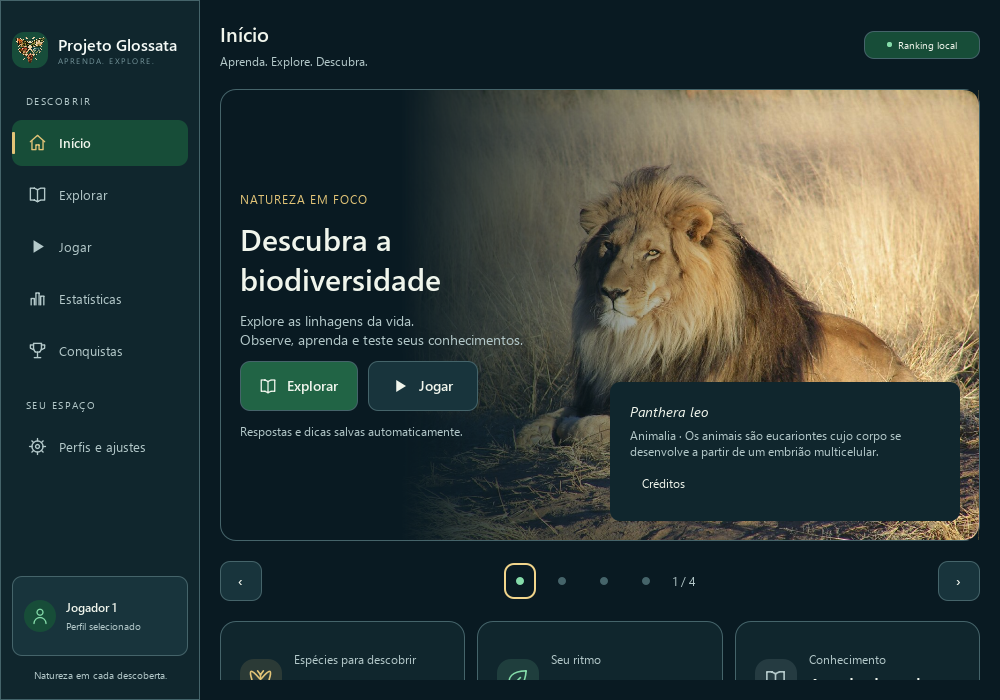
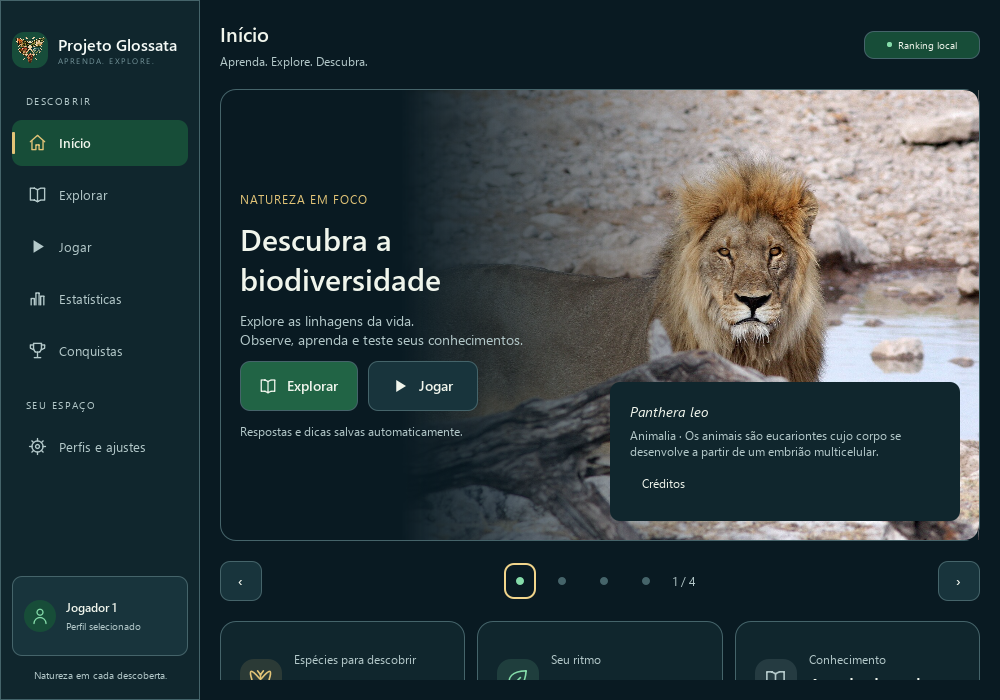
fix(media): use an independently licensed FHD lion photo on home

Changed region(s): [[0.434, 0.12, 0.992, 0.78]]

diff --git a/scripts/exploration_media.py b/scripts/exploration_media.py
@@ -179,6 +179,20 @@ def matching_variant(base, variant, root=ROOT):
     except (KeyError,ValueError,OSError):return False
 
 
+def matching_replacement(base, replacement, root=ROOT):
+    """A different Home photo needs its own evidence, not the base photo's permission or review."""
+    if (replacement.get('usage')!='home' or replacement.get('subject')!=base.get('subject')
+        or replacement.get('catalog_species_id')!=base.get('catalog_species_id')
+        or replacement.get('width',0)<1920 or replacement.get('height',0)<1080):return False
+    try:
+        species=next(s for s in load(root/'resources/data/species.json') if s['id']==replacement['catalog_species_id'])
+        record=load(local_file(root,replacement['evidence_path']))['record']
+        category=record.get('identification_category','')
+        return species['name']==replacement['subject'] and bool(re.match(
+            r'^Category:'+re.escape(species['name'])+r'(?:$|[ (])',category))
+    except (KeyError,ValueError,OSError,StopIteration):return False
+
+
 def audit(root=ROOT):
     data=load(root/MANIFEST,{'photos':{},'bindings':{}});errors=[]
     nodes={n['id']:n for n in load(root/'resources/data/taxonomy.json',[])}
@@ -189,6 +203,9 @@ def audit(root=ROOT):
     for base,key in data.get('home_variants',{}).items():
         if base not in photos or key not in photos or not matching_variant(photos[base],photos[key],root):
             errors.append({'photo':key,'error':'home_variant_identity'})
+    for base,key in data.get('home_replacements',{}).items():
+        if base not in photos or key not in photos or not matching_replacement(photos[base],photos[key],root):
+            errors.append({'photo':key,'error':'home_replacement_identity'})
     for taxon,photo in data.get('bindings',{}).items():
         if taxon not in nodes or photo not in photos:errors.append({'taxon':taxon,'error':'invalid_binding'})
         elif photos[photo].get('usage')=='home':errors.append({'taxon':taxon,'error':'home_variant_used_for_card'})
@@ -273,6 +290,9 @@ if __name__=='__main__':
                     if entry.get('variant_of'):
                         if not matching_variant(photos.get(entry['variant_of'],{}),photo):raise ValueError('Variant source identity differs from archived base')
                         data.setdefault('home_variants',{})[entry['variant_of']]=entry['id']
+                    if entry.get('replacement_of'):
+                        if not matching_replacement(photos.get(entry['replacement_of'],{}),photo):raise ValueError('Replacement species or source evidence incompatible')
+                        data.setdefault('home_replacements',{})[entry['replacement_of']]=entry['id']
                     photos[entry['id']]=photo
                     save(ROOT/MANIFEST,data) # A bounded interrupted run preserves completed records.
                     print(entry['subject']+': prepared '+title,flush=True)

diff --git a/tests/test_exploration_media.py b/tests/test_exploration_media.py
@@ -40,7 +40,13 @@ class ExplorationMediaTests(unittest.TestCase):
         self.assertEqual(len(report['coverage']),report['total_cards'])
         self.assertEqual(sum(row['id']=='special:mixed' for row in report['coverage']),1)
         self.assertLess(sum(p['bytes'] for p in self.data['photos'].values() if p.get('usage')!='home'),25_000_000)
-        self.assertLess(sum(p['bytes'] for p in self.data['photos'].values() if p.get('usage')=='home'),8_000_000)
+        # Four active FHD images, plus the prior low-resolution fallback kept for traceability.
+        self.assertLess(sum(p['bytes'] for p in self.data['photos'].values() if p.get('usage')=='home'),9_000_000)
+        active=dict(self.data['home_variants']);active.update(self.data.get('home_replacements',{}))
+        self.assertLess(sum(self.data['photos'][k]['bytes'] for k in active.values()),8_000_000)
+        for key in active.values():
+            self.assertGreaterEqual(self.data['photos'][key]['width'],1920)
+            self.assertGreaterEqual(self.data['photos'][key]['height'],1080)
         for photo in self.data['photos'].values():
             self.assertEqual(governance.image_privacy_findings(ROOT/photo['path']),[])
             proof=governance.load(ROOT/photo['evidence_path'])['record']
@@ -96,6 +102,17 @@ class ExplorationMediaTests(unittest.TestCase):
         base=next(k for k,v in self.data['bindings'].items() if v=='monarch')
         self.data['bindings'][base]='home-monarch';self.persist()
         self.assertIn('home_variant_used_for_card',{e['error'] for e in media.audit(self.root)['errors']})
+
+    def test_different_home_photo_requires_same_species_and_own_evidence(self):
+        base=self.data['photos']['lion'];replacement=self.data['photos']['home-lion-fhd']
+        self.assertFalse(media.matching_variant(base,replacement,self.root))
+        self.assertTrue(media.matching_replacement(base,replacement,self.root))
+        for field,value in [('subject','Panthera onca'),('catalog_species_id',999999),('width',1280),('height',960)]:
+            self.assertFalse(media.matching_replacement(base,dict(replacement,**{field:value}),self.root),field)
+        path=self.root/replacement['evidence_path'];evidence=governance.load(path)
+        evidence['record'].pop('identification_category');governance.save(path,evidence)
+        self.assertFalse(media.matching_replacement(base,replacement,self.root))
+        self.assertIn('permission_evidence_hash',media.photo_errors(replacement,self.root))
 
     def test_home_collection_rejects_server_upscaling(self):
         info={'url':'https://upload.wikimedia.org/fixture.jpg','thumburl':'https://upload.wikimedia.org/fixture-thumb.jpg',

diff --git a/src/infrastructure/content/JsonExplorationMediaCatalog.cpp b/src/infrastructure/content/JsonExplorationMediaCatalog.cpp
@@ -100,6 +100,21 @@ JsonExplorationMediaCatalog::JsonExplorationMediaCatalog(const QString &root) {
     for(const auto &entry:QJsonDocument::fromJson(read(root+"/resources/data/species.json")).array()) {
         const auto organism=entry.toObject();organisms.insert(organism["id"].toInt(),organism);
     }
+    const auto replacements=data["home_replacements"].toObject();
+    for(auto it=replacements.begin();it!=replacements.end();++it) {
+        const QString key=it.value().toString();
+        const auto base=photos[it.key()].toObject(), photo=photos[key].toObject();
+        const auto organism=organisms.value(photo["catalog_species_id"].toInt());
+        const QString subject=photo["subject"].toString();
+        const auto proof=QJsonDocument::fromJson(read(root+"/"+photo["evidence_path"].toString())).object()["record"].toObject();
+        const QRegularExpression category("^Category:"+QRegularExpression::escape(subject)+"(?:$|[ (])");
+        if(verified.contains(it.key()) && verified.contains(key) && photo["usage"]=="home"
+            && !subject.isEmpty() && subject==base["subject"] && organism["name"]==subject
+            && photo["catalog_species_id"]==base["catalog_species_id"]
+            && photo["width"].toInt()>=1920 && photo["height"].toInt()>=1080
+            && category.match(proof["identification_category"].toString()).hasMatch())
+            verified[it.key()].insert("homeReplacement",verified.value(key));
+    }
     for(auto it=bindings.begin();it!=bindings.end();++it) {
         const QString key=it.value().toString();
         const auto photo=photos[key].toObject();

diff --git a/tests/GameServiceTests.cpp b/tests/GameServiceTests.cpp
@@ -841,6 +841,21 @@ void GameServiceTests::explorationPhotographsFailClosed()
     const auto fallback=rejectedVariant.photoFor("clade:Opisthokonta");
     QCOMPARE(fallback["image"],card["image"]);
     QVERIFY(fallback["homeVariant"].toMap().isEmpty());
+    const auto replacement=data["photos"].toObject()["home-lion-fhd"].toObject();
+    for(const auto &key:{"path","evidence_path"}) {
+        const QString path=replacement[key].toString();
+        QDir().mkpath(QFileInfo(directory.filePath(path)).absolutePath());
+        QVERIFY(QFile::copy(":/"+path,directory.filePath(path)));
+    }
+    QVERIFY(write(lion));JsonExplorationMediaCatalog replaced(directory.path());
+    const auto home=replaced.photoFor("clade:Opisthokonta")["homeReplacement"].toMap();
+    QCOMPARE(home["width"].toInt(),1920);
+    QCOMPARE(home["subject"].toString(),QString("Panthera leo"));
+    QCOMPARE(replaced.photoFor("clade:Opisthokonta")["image"],card["image"]);
+    auto wrongSpecies=replacement;wrongSpecies["subject"]="Panthera onca";
+    photographs=data["photos"].toObject();photographs["home-lion-fhd"]=wrongSpecies;data["photos"]=photographs;
+    QVERIFY(write(lion));JsonExplorationMediaCatalog unrelated(directory.path());
+    QVERIFY(unrelated.photoFor("clade:Opisthokonta")["homeReplacement"].toMap().isEmpty());
 }
 
 void GameServiceTests::newTaxonomicRanksRequireIndependentReview()

diff --git a/src/application/TaxonomyIndex.cpp b/src/application/TaxonomyIndex.cpp
@@ -104,7 +104,8 @@ QVariantList TaxonomyIndex::homeSlides() const
         for (const auto &node : taxons_) if (node.name == name) {
             auto slide = describe(node.id);
             auto photo = slide.value("photo").toMap();
-            if (!photo.value("homeVariant").toMap().isEmpty()) photo = photo.value("homeVariant").toMap();
+            if (!photo.value("homeReplacement").toMap().isEmpty()) photo = photo.value("homeReplacement").toMap();
+            else if (!photo.value("homeVariant").toMap().isEmpty()) photo = photo.value("homeVariant").toMap();
             slide.insert("photo", photo);
             const auto introduction = slide.value("introduction").toMap();
             const QString image = photo.value("image").toString();

diff --git a/tests/QmlInterfaceTests.cpp b/tests/QmlInterfaceTests.cpp
@@ -64,6 +64,8 @@ void QmlInterfaceTests::homeCarouselPhotographsAndNavigation()
         QVERIFY(!photo["author"].toString().isEmpty());
         QVERIFY(photo["licenseUrl"].toString().startsWith("https://creativecommons.org/"));
         QCOMPARE(photo["evidenceSha256"].toString().size(), 64);
+        QVERIFY(photo["width"].toInt() >= 1920);
+        QVERIFY(photo["height"].toInt() >= 1080);
         QVERIFY(!images.contains(photo["image"].toString()));
         images.insert(photo["image"].toString());
         QVERIFY(slide["introduction"].toMap()["text"].toString().startsWith(slide["excerpt"].toString()));

diff --git a/docs/interface/VERSOES/2.2.1-A/README.md b/docs/interface/VERSOES/2.2.1-A/README.md
@@ -16,7 +16,7 @@ Arquivos de produção do refinamento: `HomeView.qml`, `Theme.qml`, `TaxonomyInd
 
 | Grupo / representante | Crédito e licença específica | Evidência arquivada | Fonte do trecho educativo existente |
 | --- | --- | --- | --- |
-| Animalia / *Panthera leo* | [Kevin Pluck — CC BY 2.0](https://commons.wikimedia.org/wiki/File:Lion_waiting_in_Namibia.jpg) | [lion.json](../../../../resources/compliance/exploration/lion.json) | [Jacques et al. (2022)](https://doi.org/10.1007/s12032-022-01740-w) |
+| Animalia / *Panthera leo* | [Ron Knight from Seaford, East Sussex, United Kingdom — CC BY 2.0](https://commons.wikimedia.org/wiki/File:Lion_(Panthera_leo)_(8603270337).jpg) | [home-lion-fhd.json](../../../../resources/compliance/exploration/home-lion-fhd.json) | [Jacques et al. (2022)](https://doi.org/10.1007/s12032-022-01740-w) |
 | Arthropoda / *Danaus plexippus* | [kcthetc1 — CC0 1.0](https://commons.wikimedia.org/wiki/File:Danaus_plexippus_100029190.jpg) | [monarch.json](../../../../resources/compliance/exploration/monarch.json) | [Klementz et al. (2024)](https://doi.org/10.1093/molbev/msae188) |
 | Plantae / *Helianthus annuus* | [S.G.S. — CC0 1.0](https://commons.wikimedia.org/wiki/File:Sunflowers_public_domain_helianthus_annuus_IMG_0815.jpg) | [sunflower.json](../../../../resources/compliance/exploration/sunflower.json) | [Fangel et al. (2012)](https://doi.org/10.3389/fpls.2012.00152) |
 | Fungi / *Amanita muscaria* | [Bernard Spragg. NZ from Christchurch, New Zealand — CC0 1.0](https://commons.wikimedia.org/wiki/File:Amanita_muscaria_(1)_(8692325426).jpg) | [amanita.json](../../../../resources/compliance/exploration/amanita.json) | [Challacombe et al. (2019)](https://doi.org/10.1186/s12864-019-6358-x) |
@@ -38,7 +38,7 @@ As capturas reais e seus hashes são relacionados em `capturas.json`, com fontes
 | Girassol | [Captura](capturas/slide-2-1000x700.png) | [Captura](capturas/slide-2-1240x820.png) | [Captura](capturas/slide-2-1920x1080.png) |
 | Cogumelo | [Captura](capturas/slide-3-1000x700.png) | [Captura](capturas/slide-3-1240x820.png) | [Captura](capturas/slide-3-1920x1080.png) |
 
-[Diálogo de créditos](capturas/credits-1240x820.png). Versões anteriores preservadas integralmente. Em 1000 × 700, os indicadores inferiores usam a rolagem existente; não ficam inacessíveis. As variantes maiores são exclusivas da Home; a tabela abaixo registra as dimensões efetivas. O leão continua limitado pelo original de 1280 × 960, sem original de 1920 pixels de largura disponível; não foi ampliado artificialmente para simular detalhe. Validação visual em Windows/Qt software, escala 1; outras GPUs, escalas e leitores de tela não foram ensaiados.
+[Diálogo de créditos](capturas/credits-1240x820.png). Versões anteriores preservadas integralmente. Em 1000 × 700, os indicadores inferiores usam a rolagem existente; não ficam inacessíveis. As variantes maiores são exclusivas da Home; a tabela abaixo registra as dimensões efetivas. A antiga foto do leão era limitada a 1280 × 960; foi substituída na Home por outra foto de Panthera leo, em 1920 × 1247, sem ampliação artificial. Validação visual em Windows/Qt software, escala 1; outras GPUs, escalas e leitores de tela não foram ensaiados.
 
 Comandos: `cmake --build build -j 4`, `ctest --test-dir build --output-on-failure`, `qmllint resources/qml/views/HomeView.qml --unqualified disable`, `python scripts/capture_home.py`, `python scripts/audit_catalog.py --strict`, `python scripts/licensing_inventory.py --check-code`, `python scripts/release.py check`, `python scripts/distribution.py check`.
 
@@ -60,23 +60,32 @@ As imagens anteriores dos cartões e suas evidências foram preservadas byte a b
 
 | Organismo | Resolução real da Home | Licença comprovada | Evidência da nova coleta |
 | --- | --- | --- | --- |
-| *Panthera leo* | 1280 × 960 | CC BY 2.0 | [home-lion.json](../../../../resources/compliance/exploration/home-lion.json) |
+| *Panthera leo* | 1920 × 1247 | CC BY 2.0 | [home-lion-fhd.json](../../../../resources/compliance/exploration/home-lion-fhd.json) |
 | *Danaus plexippus* | 2048 × 2021 | CC0 1.0 | [home-monarch.json](../../../../resources/compliance/exploration/home-monarch.json) |
 | *Helianthus annuus* | 3024 × 3024 | CC0 1.0 | [home-sunflower.json](../../../../resources/compliance/exploration/home-sunflower.json) |
 | *Amanita muscaria* | 3000 × 2129 | CC0 1.0 | [home-amanita.json](../../../../resources/compliance/exploration/home-amanita.json) |
 
-São os originais fornecidos pela fonte, totalizando 7.666.711 bytes; nenhuma ampliação ou edição dos arquivos foi feita. Todos passaram pela checagem existente de metadados sensíveis. Foram aproveitadas as mesmas identificações e referências, sem nova aprovação humana. A concessão pública por arquivo é registrada pelo mecanismo já existente; não elimina outros bloqueios. O catálogo 2.4.0 permanece não lançado, com identidade de conteúdo regenerada; aplicativo 1.7.0 inalterado.
+A seleção ativa soma 7.920.358 bytes: três originais e a imagem do leão reduzida pela própria fonte de 5184 × 3367 para 1920 × 1247. Nenhum detalhe foi criado por ampliação. O arquivo anterior de 1280 × 960 permanece disponível como fallback rastreável. Todos passaram pela checagem existente de metadados sensíveis. Foram aproveitadas as mesmas identificações e referências, sem nova aprovação humana. A concessão pública por arquivo é registrada pelo mecanismo já existente; não elimina outros bloqueios. O catálogo 2.4.0 permanece não lançado, com identidade de conteúdo regenerada; aplicativo 1.7.0 inalterado.
 
 Dois buffers nativos `Image` mantêm a foto atual enquanto carregam a próxima. O recorte usa a proporção e o ponto focal, com um gradiente independente das imagens. Canvas é utilizado apenas para os recortes dos cantos; os cartões continuam usando seu componente anterior sem alterações. A renderização por Canvas das fotografias foi substituída após reproduzir invalidação de textura em um buffer pré-carregado invisível no renderizador software. O crossfade só começa após o carregamento do buffer de entrada; uma falha mantém a fotografia anterior e libera a navegação. A decodificação é limitada a 1920 pixels por lado, sem ampliar arquivos menores, e o cache dos buffers é desativado; não se mantêm as quatro imagens decodificadas pelo carrossel. O limite de 3072 pixels/5 MB por arquivo aplica-se somente às variantes da Home; os cartões conservam o orçamento anterior de 1024 pixels. Links externos continuam restritos a ações explícitas do usuário.
 
-Validação final do refinamento em 20/10/2026:
+Validação do refinamento anterior à troca FHD do leão em 20/10/2026 (registro histórico):
 
 - Compilação Release concluída; **26/26 suítes CTest aprovadas** (196,79 s). Suíte Qt/QML: **10 casos aprovados**, sem avisos, incluindo inicialização/finalização (57,39 s).
 - O teste aguarda um intervalo real de oito segundos, verifica os dois buffers simultaneamente durante o crossfade de 600 ms, o reinício após ação manual, hover, foco de teclado, créditos, janela inativa/oculta, redução de movimento e saída da Home. Intervalos acelerados são usados somente nas verificações posteriores de pausa/reinício. Testado também retorno ao primeiro slide.
 - As 12 capturas de slides são verificadas por amostragem de pixels reais para rejeitar um quadro vazio, além da prontidão de carregamento. Há 13 capturas finais: quatro slides nas três resoluções solicitadas e diálogo de créditos. Captura oficial regenerada pelo executável real; manifesto atualizado com PNGs, fontes, binários, horários e dados de cada mídia.
-- **21 testes de mídia aprovados**: licença, autoria, evidências, resolução nativa, rejeição de ampliação oferecida pelo servidor, vínculo ao mesmo arquivo-fonte e isolamento dos cartões. Auditoria das 113 entradas de mídia (109 anteriores e quatro variantes, não quatro novos organismos/fotografias-fonte): zero erros.
+- **21 testes de mídia aprovados**: licença, autoria, evidências, resolução nativa, rejeição de ampliação oferecida pelo servidor, vínculo ao mesmo arquivo-fonte e isolamento dos cartões. Auditoria atual: 114 entradas de mídia, incluindo a nova substituta do leão; apenas quatro são selecionadas na Home. Não há organismos adicionados.
 - Qmllint de todos os QML, auditoria estrita do catálogo, Apache 2.0, integridade de manifestos e higiene do repositório aprovados. Permanecem 122 organismos, 855 receitas, 49 etimologias e 104 morfologias verificadas.
 - Comparação com `5eb1fc94be8f7570fe188c85101ce9e16128aa7b`: os 1.053 eventos, todos os 109 registros/arquivos anteriores e os vínculos dos cartões são preservados. Nenhuma alteração de decisões humanas, textos científicos, ícones, regras ou persistência.
 - Distribuição **bloqueada** por 120 pendências fotográficas e 275 bloqueios científicos; zero erros técnicos e zero pendências de outros materiais. Não foi publicado pacote ou release.
 
 O histórico inicial permanece no Git, e as versões baseline/2.1.2/2.1.3 não são modificadas. Renderização avaliada em Qt software/offscreen, escala 1; não há medição de FPS ou garantia sobre outras GPUs/escalas/leitores de tela.
+
+
+## Complemento FHD solicitado pelo mantenedor
+
+Entre as quatro fotografias ativas, somente o leão estava abaixo de 1920 × 1080. Foi preparada outra imagem da mesma espécie, [Panthera leo em Etosha, por Ron Knight](https://commons.wikimedia.org/wiki/File:Lion_(Panthera_leo)_(8603270337).jpg), com CC BY 2.0 comprovada no arquivo específico. A fonte identifica a espécie no título e na categoria `Panthera leo of Etosha National Park`, arquivada pelo coletor; isso não constitui revisão por especialista. A imagem passou pela inspeção visual técnica e pela checagem de metadados sensíveis.
+
+`home_replacements` registra esta seleção separadamente de `home_variants`: não é apresentada como outro tamanho da fotografia de Kevin Pluck. A nova imagem exige evidência própria, identidade coincidente com o organismo 126 e categoria identificadora da fonte, além de pelo menos 1920 × 1080 pixels. A permissão e a identificação da foto antiga não são transferidas. O validador continua exigindo o mesmo arquivo-fonte para variantes de resolução. Em caso de falha, mantém o fallback validado; não libera uma imagem sem licença.
+
+As fotos dos cartões, os vínculos taxonômicos, os organismos, as receitas, os textos e os históricos permanecem intactos. As outras três imagens ativas já superavam FHD e foram mantidas. Crédito, snapshot, hash, QRC, inventário, catálogo e capturas são atualizados pelos mecanismos existentes. Validação final deste complemento: Release compilada; 26/26 suítes CTest aprovadas (195,06 s), dez casos Qt/QML aprovados (57,49 s) e 22 testes de mídia aprovados. A suíte exige pelo menos 1920 × 1080 para as quatro imagens ativas e verifica a rejeição de outra espécie ou evidência identificadora ausente. As 13 capturas reais e o registro canônico do README foram regenerados. Auditorias de catálogo, Apache, governança, mídia, metadados e integridade aprovadas. O gate permanece bloqueado pelas mesmas 120 pendências fotográficas e 275 científicas, com zero erros técnicos.

diff --git a/docs/PHOTO_CREDITS.md b/docs/PHOTO_CREDITS.md
@@ -261,6 +261,8 @@ Representantes visuais dos grupos; não substituem fotos de identificação do q
[1 lines of base64/hex data omitted]
 - **Panthera leo** — Kevin Pluck — título: Lion waiting in Namibia — [arquivo específico](https://commons.wikimedia.org/wiki/File:Lion_waiting_in_Namibia.jpg) — [CC-BY 2.0](https://creativecommons.org/licenses/by/2.0/) — Arquivo original fornecido pelo Wikimedia Commons. Na interface: preenchimento proporcional com recorte centrado no ponto focal e gradiente horizontal de transparência; sem retoque do organismo.
[1 lines of base64/hex data omitted]
+- **Panthera leo** — Ron Knight from Seaford, East Sussex, United Kingdom — título: Lion (Panthera leo) (8603270337) — [arquivo específico](https://commons.wikimedia.org/wiki/File:Lion_(Panthera_leo)_(8603270337).jpg) — [CC-BY 2.0](https://creativecommons.org/licenses/by/2.0/) — Imagem reduzida fornecida pelo Wikimedia Commons. Na interface: preenchimento proporcional com recorte centrado no ponto focal e gradiente horizontal de transparência; sem retoque do organismo.
[1 lines of base64/hex data omitted]
 - **Danaus plexippus** — kcthetc1 — título: Danaus plexippus 100029190 — [arquivo específico](https://commons.wikimedia.org/wiki/File:Danaus_plexippus_100029190.jpg) — [CC0 1.0](https://creativecommons.org/publicdomain/zero/1.0/) — Arquivo original fornecido pelo Wikimedia Commons. Na interface: preenchimento proporcional com recorte centrado no ponto focal e gradiente horizontal de transparência; sem retoque do organismo.
[1 lines of base64/hex data omitted]
 - **Helianthus annuus** — S.G.S. — título: Sunflowers public domain helianthus annuus IMG 0815 — [arquivo específico](https://commons.wikimedia.org/wiki/File:Sunflowers_public_domain_helianthus_annuus_IMG_0815.jpg) — [CC0 1.0](https://creativecommons.org/publicdomain/zero/1.0/) — Arquivo original fornecido pelo Wikimedia Commons. Na interface: preenchimento proporcional com recorte centrado no ponto focal e gradiente horizontal de transparência; sem retoque do organismo.

diff --git a/docs/CATALOGO_CHANGELOG.md b/docs/CATALOGO_CHANGELOG.md
@@ -1,5 +1,7 @@
 # Histórico do catálogo científico e das licenças
 
+Complemento do PR #30 em 2026-10-20, sem lançamento: outra fotografia de Panthera leo, por Ron Knight, preparada em 1920 × 1247 exclusivamente para a Home, com nova evidência individual CC BY 2.0 e categoria identificadora da fonte. A foto anterior e seus registros permanecem como fallback; não há transferência de permissão ou revisão humana presumida. Os outros três slides, cartões e organismos não mudam. Manifesto 2.4.0 não lançado regenerado; app 1.7.0 preservado.
+
 Refinamento do PR #30 em 2026-10-20, sem lançamento: quatro variantes da mesma fotografia-fonte, exclusivas da Home, com novas evidências públicas CC BY 2.0/CC0 1.0, dimensões nativas, hashes e créditos individuais. Preservados os 109 arquivos de exploração anteriores, os 122 organismos, as 855 receitas e todo o histórico de decisões. Catálogo 2.4.0 não lançado regenerado pelo fluxo existente; aplicativo 1.7.0 inalterado. Não libera os demais materiais nem o pacote.
 
 Ajuste final do PR #23 em 2026-10-19, sem lançamento: referências das duas fotos passam a CC BY com versão/URL desconhecidas, sem presumir 4.0. Dois registros técnicos reindexam a mesma aprovação expressa, preservando prova, datas e todos os eventos anteriores. Nenhuma nova decisão humana ou permissão; receitas e imagens idênticas.

diff --git a/CHANGELOG.md b/CHANGELOG.md
@@ -4,6 +4,8 @@ Este arquivo registra mudanças do aplicativo com versionamento semântico. A ve
 
 ## [1.7.0] — Não lançado; curadoria e integridade do projeto
 
+- PR #30: substituída somente a foto do leão na Home por outra de Panthera leo em 1920 × 1247, com identificação e licença CC BY 2.0 próprias; quatro fotos ativas passam a atender FHD, preservando os cartões e os fallbacks.
+
 - Refinamento do PR #30: variantes fotográficas maiores exclusivas da Home, indicadores sem miniaturas, avanço de oito segundos com pausas e crossfade de 600 ms, créditos compactos e novas capturas reais. Fotos dos cartões/quiz e regras preservadas.
 
 - Subetapa 2.2.1-A (#22): Início com quatro fotografias locais, carrossel manual acessível, créditos e fontes por slide, ações Explorar/Jogar e redução de movimento. Nenhuma nova mídia ou alteração de catálogo.

diff --git a/docs/interface/CHANGELOG_UI.md b/docs/interface/CHANGELOG_UI.md
@@ -2,6 +2,8 @@
 
 ## 2.2.1-A — Início fotográfico — 2026-10-20
 
+- Complemento FHD no PR #30: foto do leão substituída apenas na Home por outra da mesma espécie em 1920 × 1247; demais slides preservados. Crédito e proveniência independentes, capturas reais atualizadas e fallback anterior mantido.
+
 - Refinamento no PR #30: quatro variantes nativas maiores somente na Home; miniaturas removidas em favor de pontos. Avanço automático de oito segundos, crossfade de 600 ms, pausas por interação/visibilidade e redução de movimento. Legenda compacta com Créditos; informações de atribuição preservadas no diálogo. Capturas e manifesto atualizados na mesma revisão.
 
 - Quatro fotografias existentes, preenchimento proporcional, gradiente, miniaturas, setas e posição; sem avanço automático.
